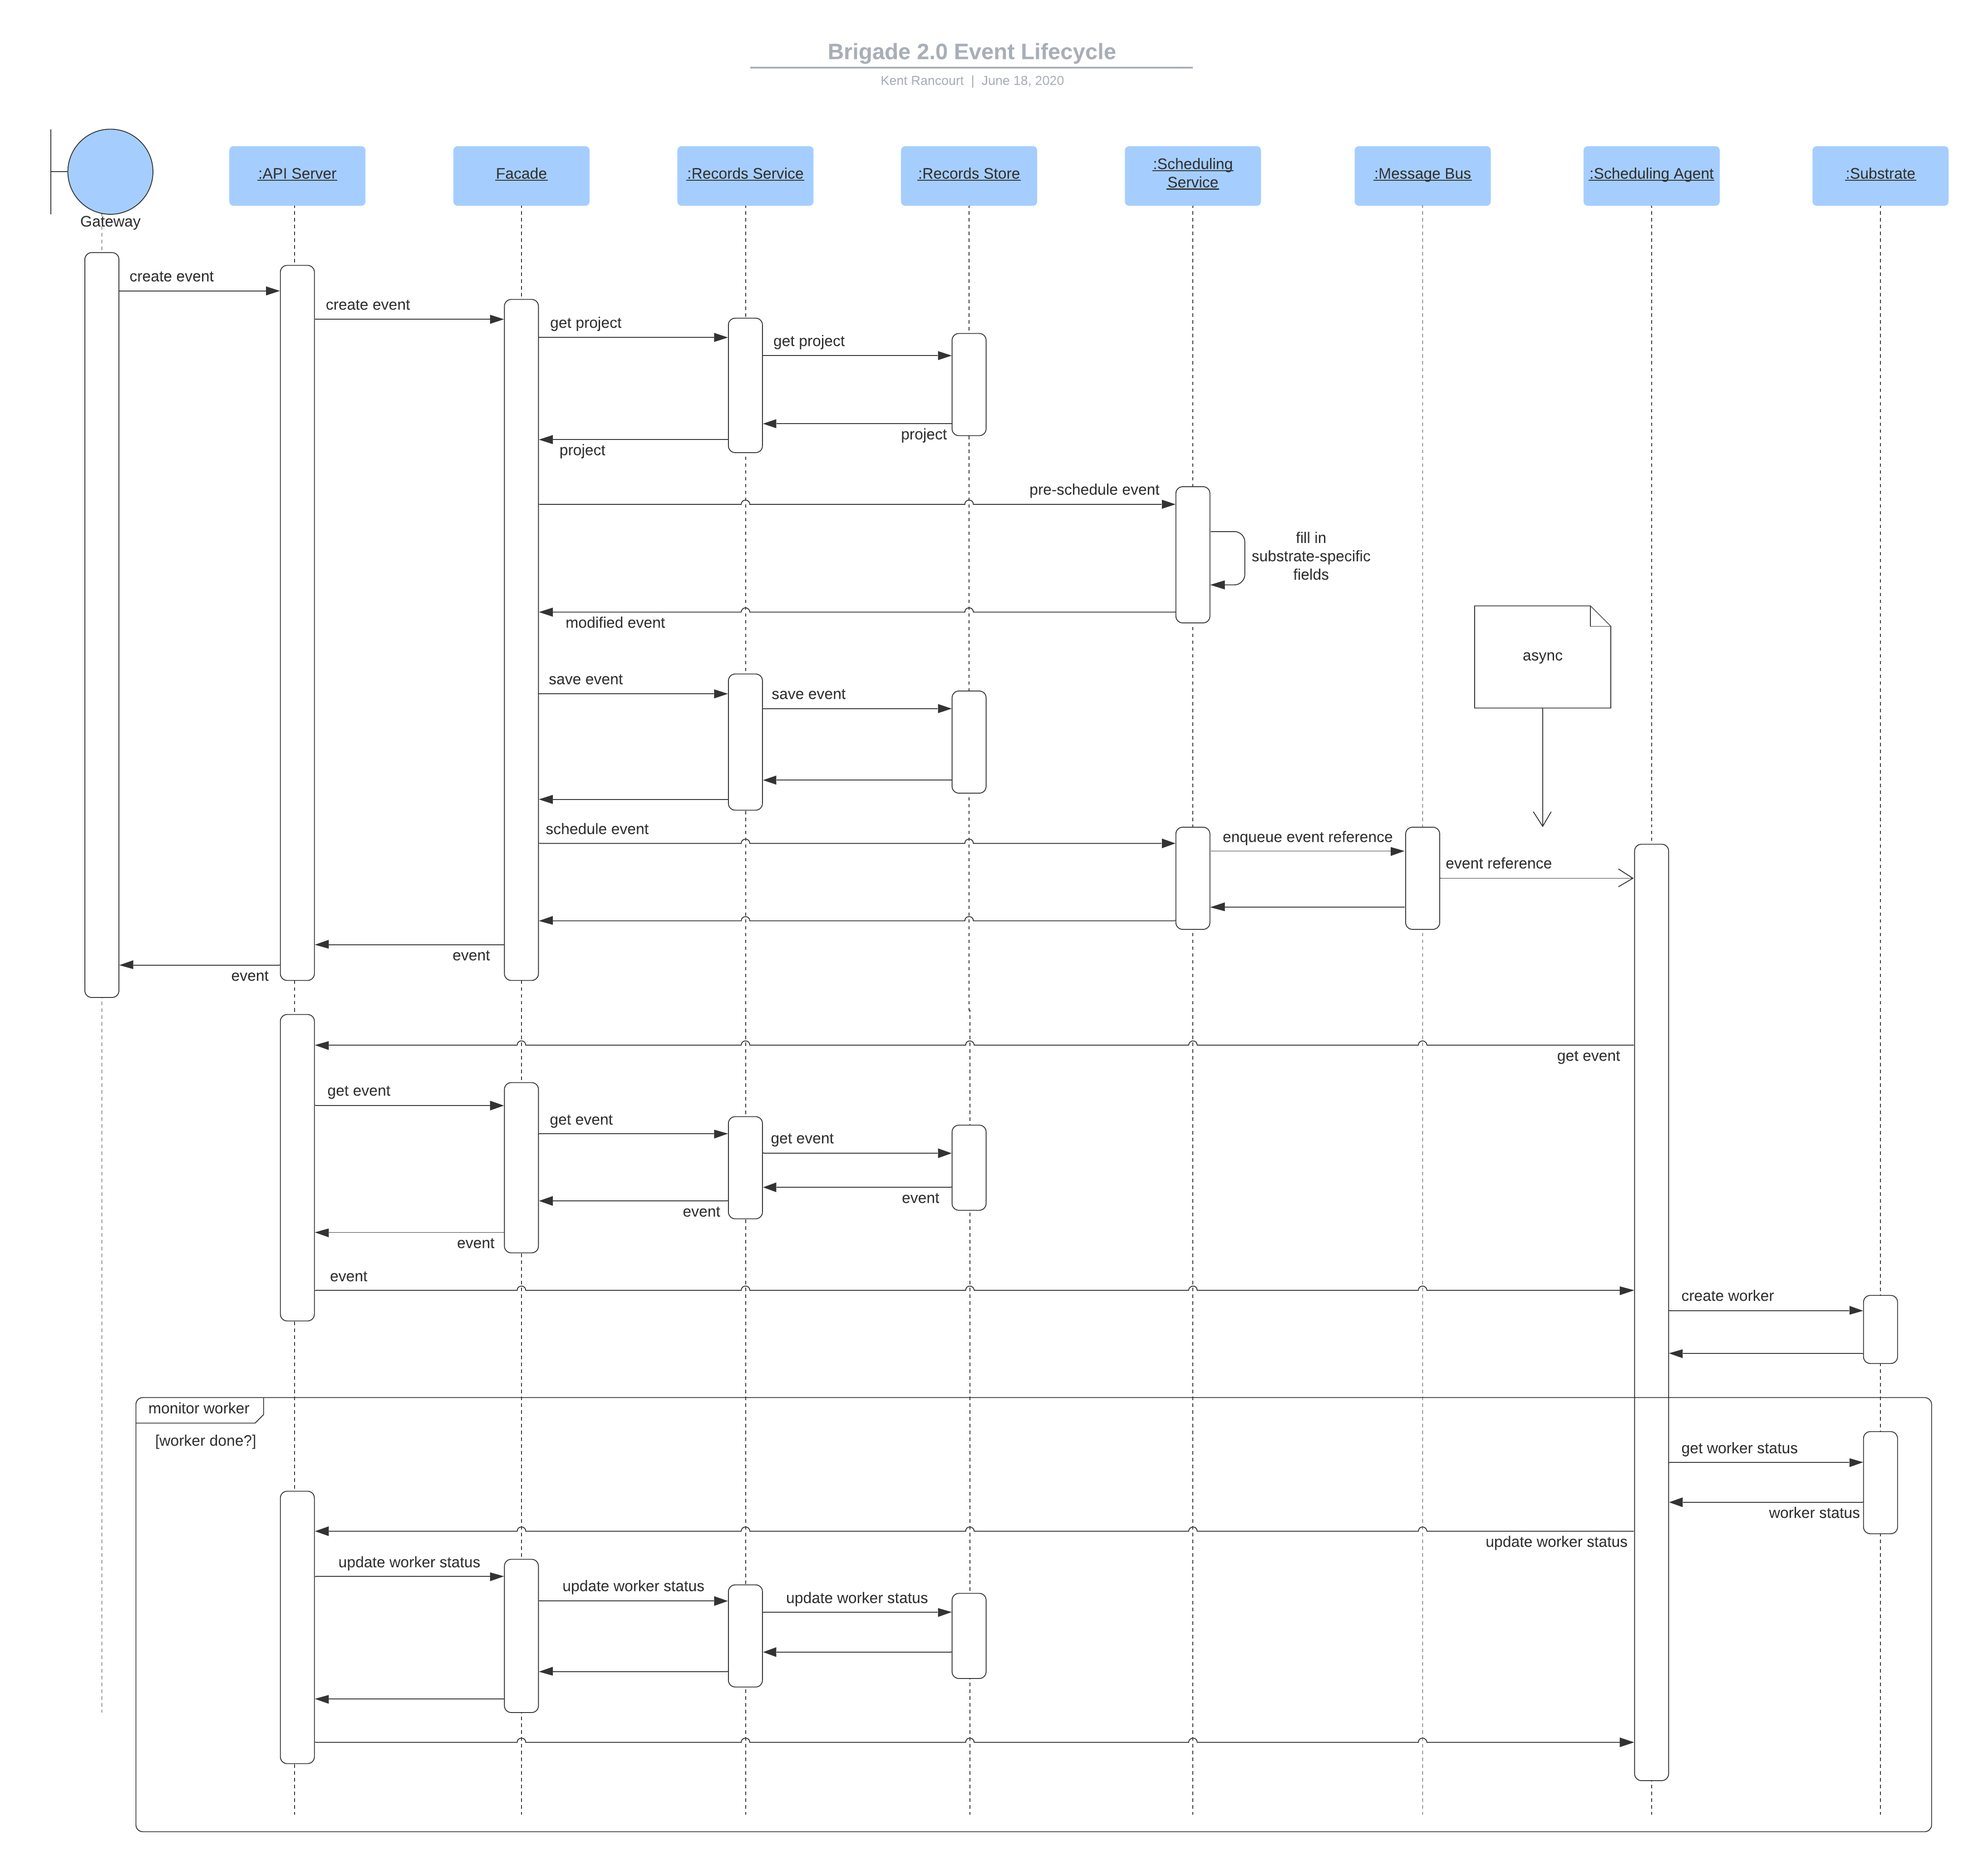
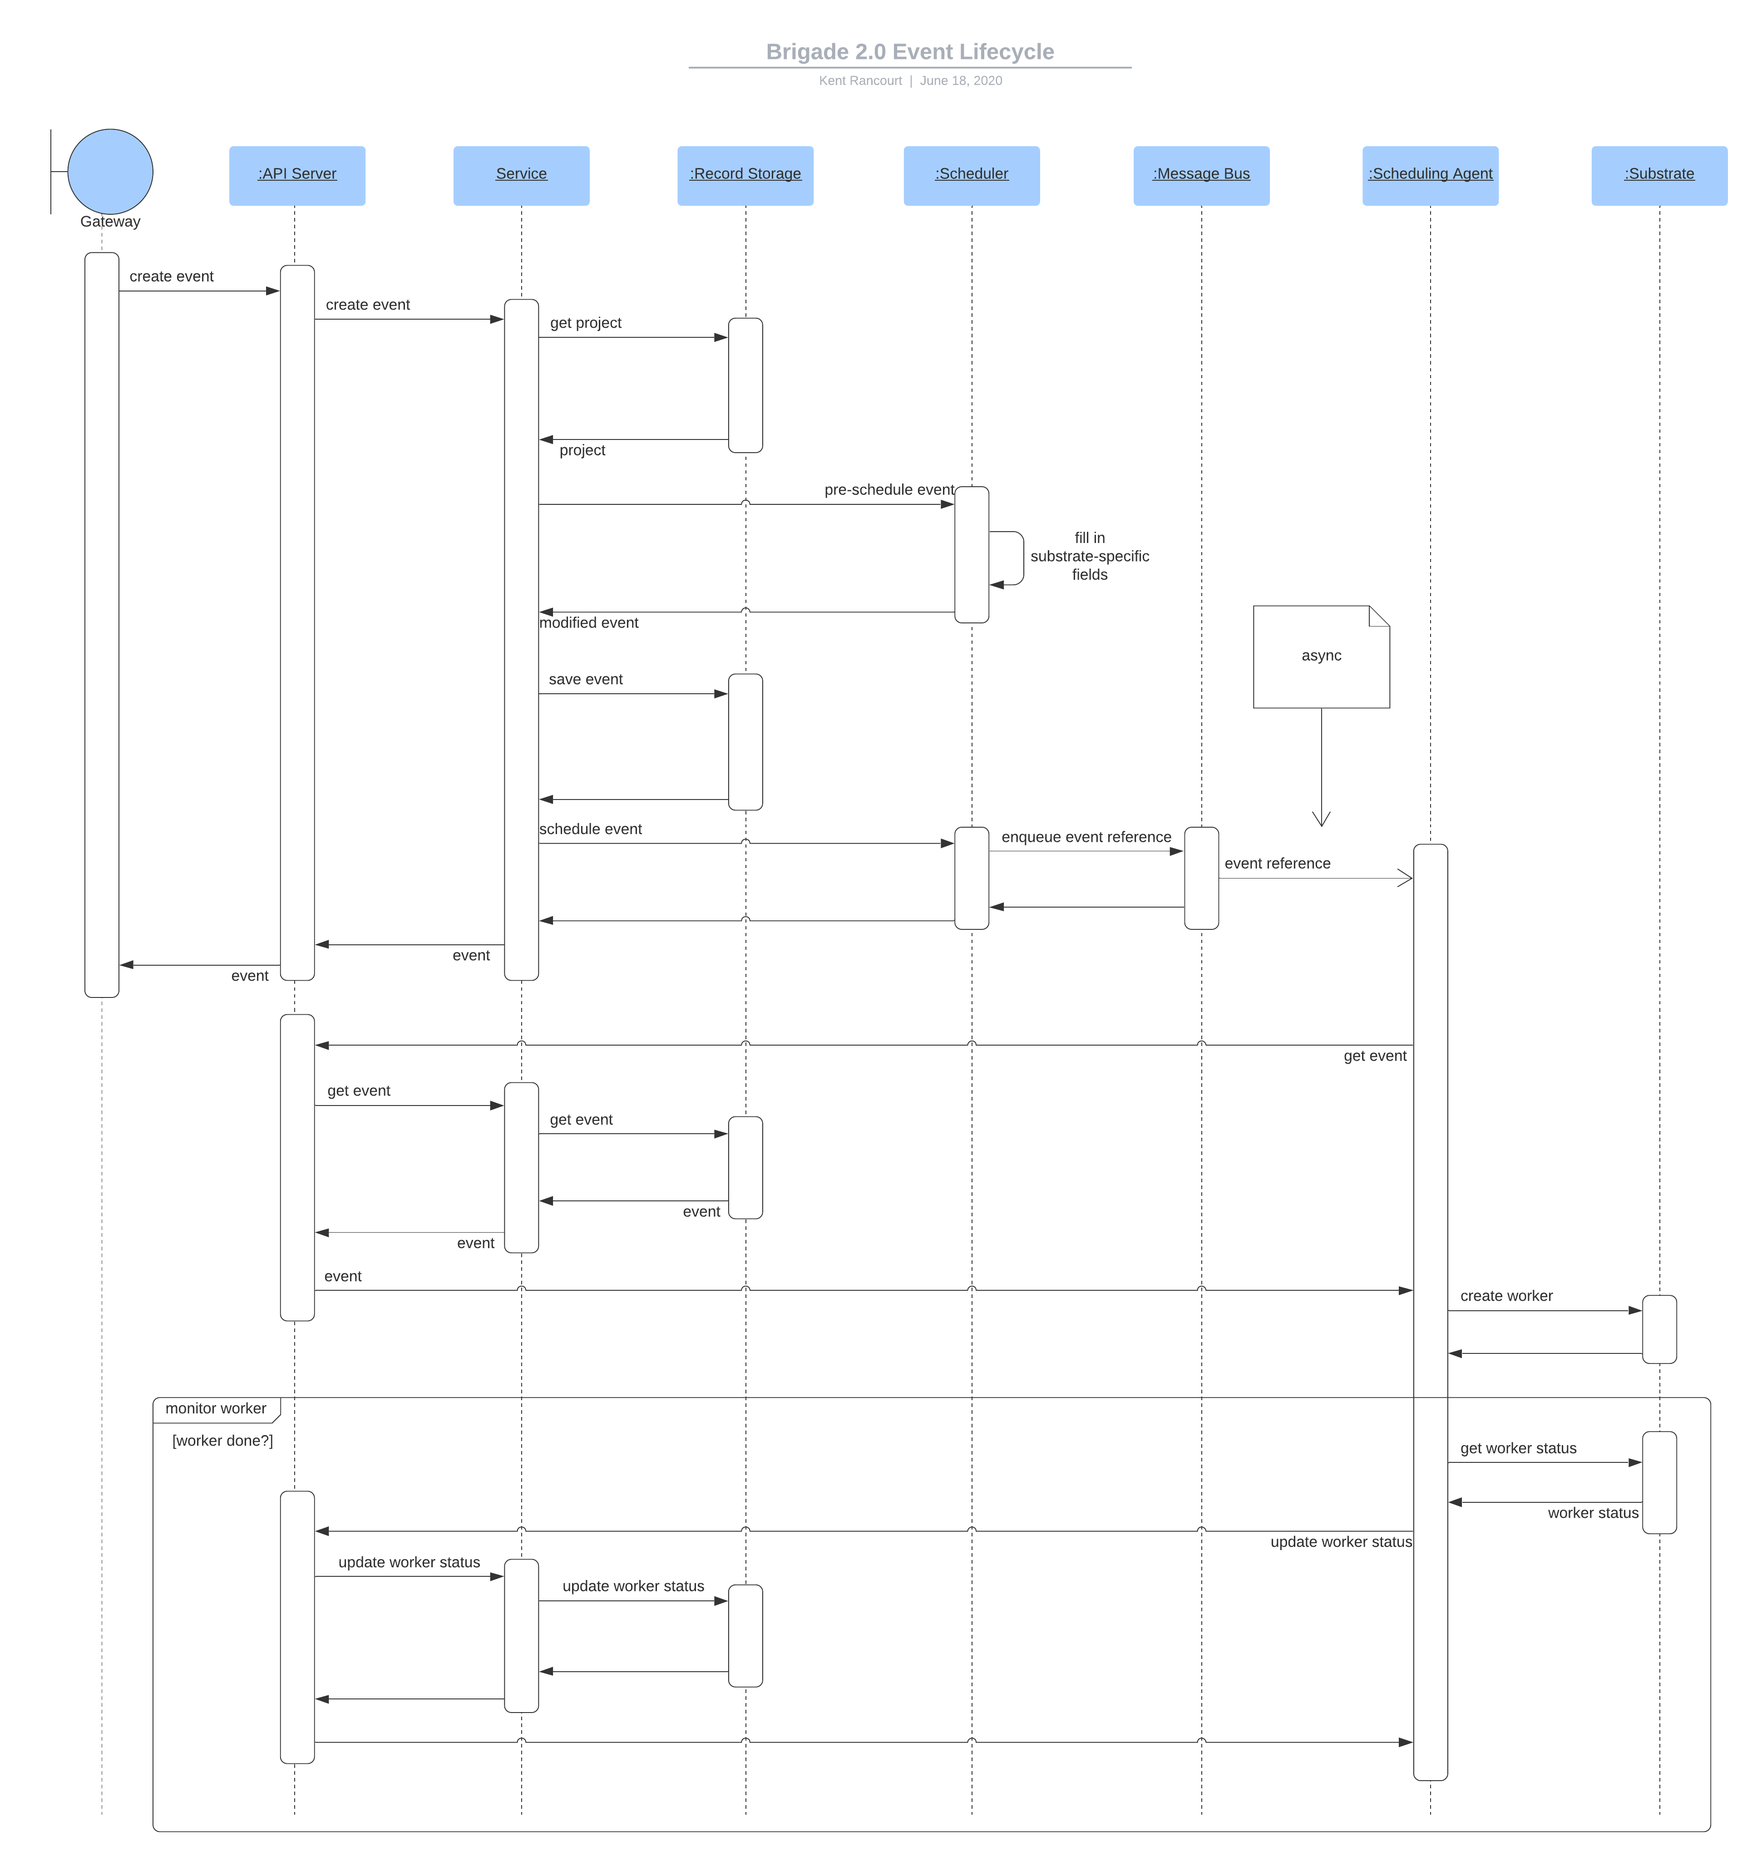
more proposal work

diff --git a/PROPOSAL.md b/PROPOSAL.md
@@ -342,12 +342,12 @@ execution substrate to only a few components.
 
 With a few cross-cutting concerns such as access control notwithstanding, the
 proposed architecture decomposes Brigade into three logical subsystems-- record
-keeping, scheduling, and logging-- with a service facade layer to coordinate
-among these three. The service facade layer will be exposed to clients via
-secure HTTP endpoints that implement a RESTful API. An API client will be made
-available as a Go package.
+storage, scheduling, and logging-- with a service layer to coordinate among
+these three. The service layer will be exposed to clients via secure HTTP
+endpoints that implement a RESTful API. An API client will be made available as
+a Go package.
 
-![Logical Component Model](component.png)
+![Logical Component Model](components.png)
 
 N.B.: Brigade 1.x has a read-only API that is utilized by Kashti only. (Kashti
 is the web-based, read-only Brigade 1.x dashboard.) The API referenced above is
@@ -364,22 +364,22 @@ handling to illustrate.
 
 Brigade 2.0's REST API will be minimal and unremarkable, serving only to handle
 transport-specific details-- decoding HTTP requests into domain objects that may
-be passed to a transport-agnostic service facade layer and encoding domain
-objects returned from that service facde layer as HTTP responses.
+be passed to the transport-agnostic service layer and encoding domain objects
+returned from that service layer as HTTP responses.
 
 It is proposed that validation be handled by the API endpoints since JSON schema
 provides an easy and efficient mechanism for this purpose, but must be applied
 to raw HTTP request bodies prior to unmarshaling.
 
-### The Service Facade Layer
+### The Service Layer
 
-Brigade 2.0's service facade layer will implement high level, vendor neutral
-business logic and coordinate Brigade's underlying subsystems through
-well-defined interfaces.
+Brigade 2.0's service layer will implement high level, vendor neutral business
+logic and coordinate Brigade's underlying subsystems through well-defined
+interfaces.
 
-### Record Keeping Subsystem
+### Record Storage
 
-The record keeping subsystem will provide a synchronous interface for the
+The record storage subsystem will provide a synchronous interface for the
 persistence of domain objects such as projects and events. Document-based
 storage is proposed since relatively few relationships exist between domain
 objects and among those relationships that do exist, composition is highly
@@ -399,7 +399,7 @@ factors:
 1. Distributed transactions available when needed (in some configurations)
 1. Widespread developer familiarity
 
-### Scheduling Subsystem
+### Scheduling
 
 The scheduling subsystem will provide a synchronous interface for managing the
 underlying workload execution substrate-- which will be Kubernetes, exclusively.
@@ -435,7 +435,7 @@ A non-exhaustive list of potential message buses includes:
 
 `<<TODO: Describe the role of workers.>>`
 
-### Logging Subsystem
+### Logging
 
 The logging subsystem will utilize an agent-per-node deployment model to
 aggregate logs from worker and job containers and persist them in some data
